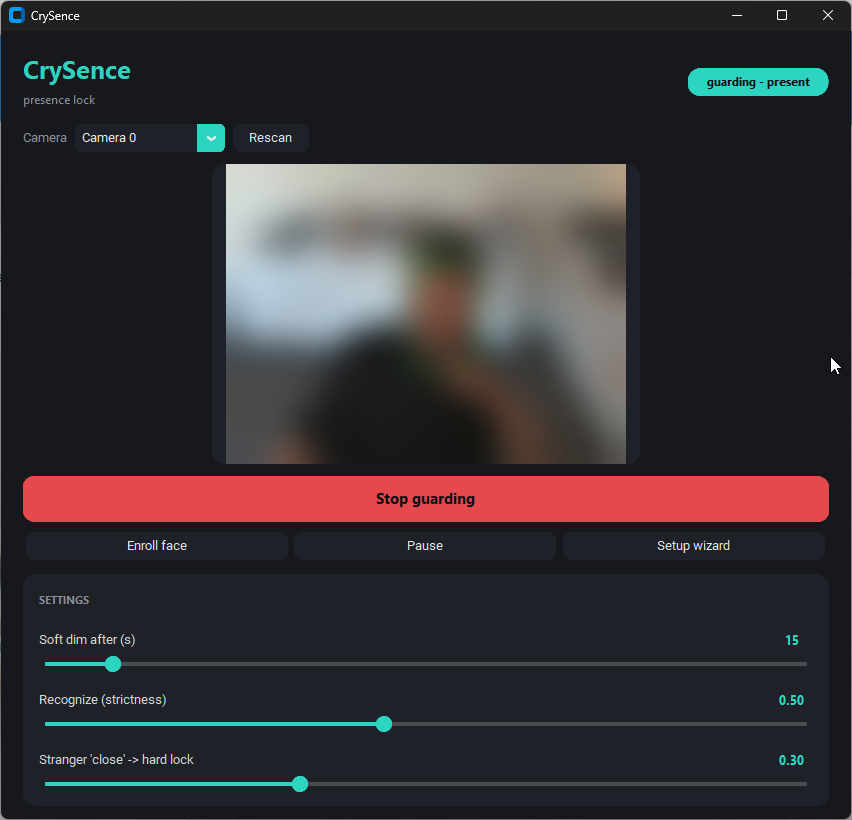
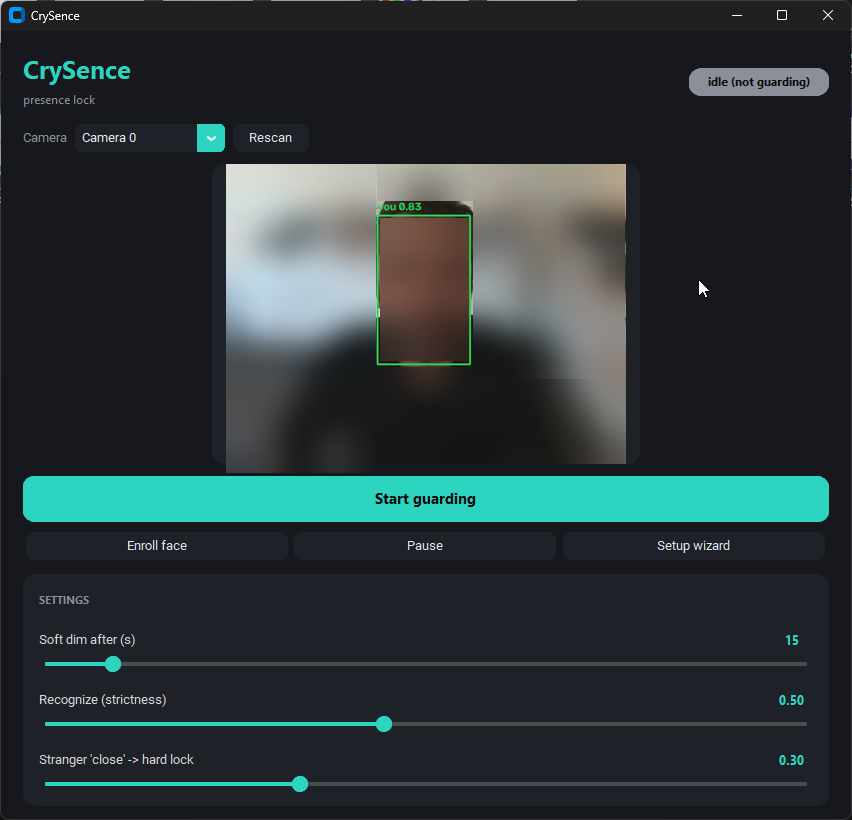
docs: better dashboard shot (recognition box You 0.83)

diff --git a/README.md b/README.md
@@ -18,10 +18,11 @@ account, no telemetry.
 
 ![CrySence dashboard](docs/screenshots/dashboard.png)
 
-_The main window: live preview, the "guarding — present" status pill, and the
-strictness sliders. (Preview blurred here on purpose.) Setup wizard, soft cover,
-and tray shots — plus a short clip of the cover lifting itself — coming next
-(recipe in [`docs/DEMO.md`](docs/DEMO.md))._
+_The main window recognizing its owner — the green box and match score
+(`You 0.83`) mean it knows you. Also here: the camera picker, live preview, and
+the strictness sliders. (Face blurred on purpose.) Setup wizard, soft cover, and
+tray shots — plus a short clip of the cover lifting itself — coming next (recipe
+in [`docs/DEMO.md`](docs/DEMO.md))._
 
 ## Why
 
